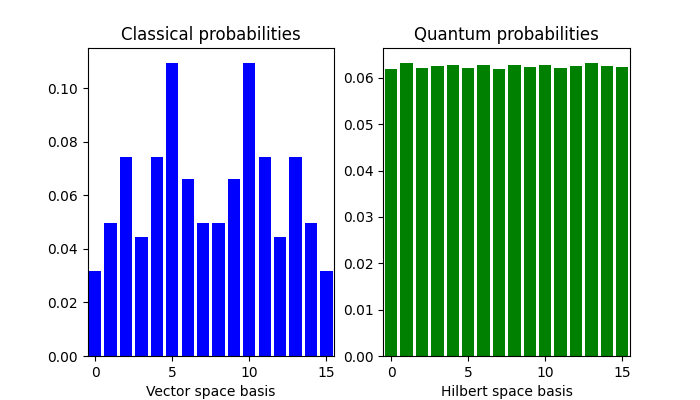
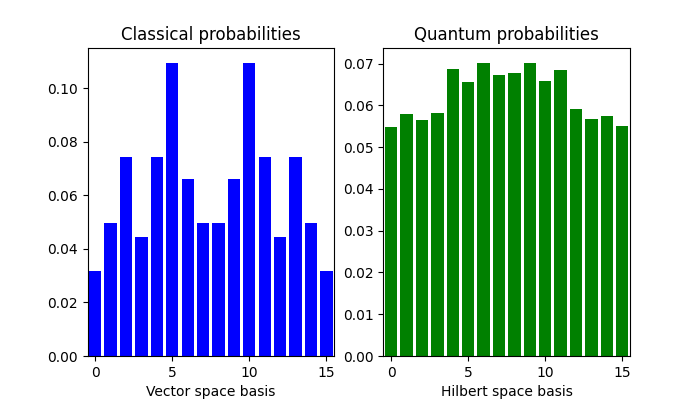
updates

diff --git a/drafts/vqls_test.py b/drafts/vqls_test.py
@@ -23,7 +23,7 @@ n_qubits = 4  # Number of system qubits.
 n_shots = 10 ** 6  # Number of quantum measurements.
 tot_qubits = n_qubits + 1  # Addition of an ancillary qubit.
 ancilla_idx = n_qubits  # Index of the ancillary qubit (last position).
-steps = 30  # Number of optimization steps
+steps = 100  # Number of optimization steps
 learning_rate = 2  # Learning rate
 q_delta = 0.001  # Initial spread of random quantum weights
 rng_seed = 0  # Seed for random number generator
